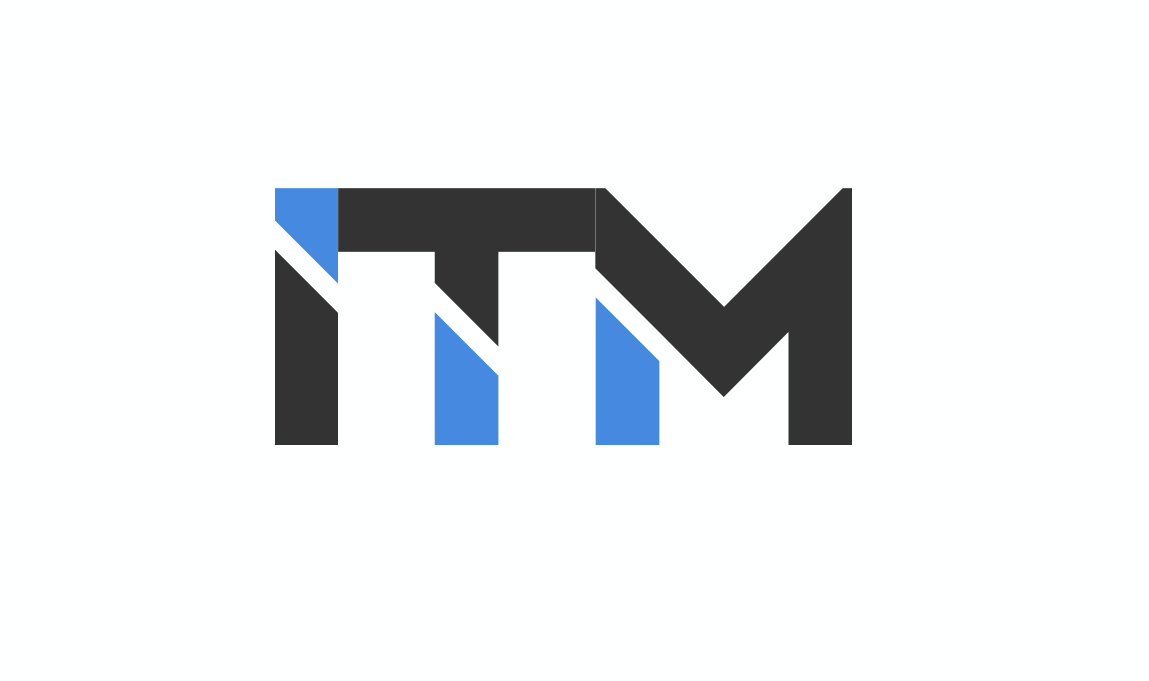
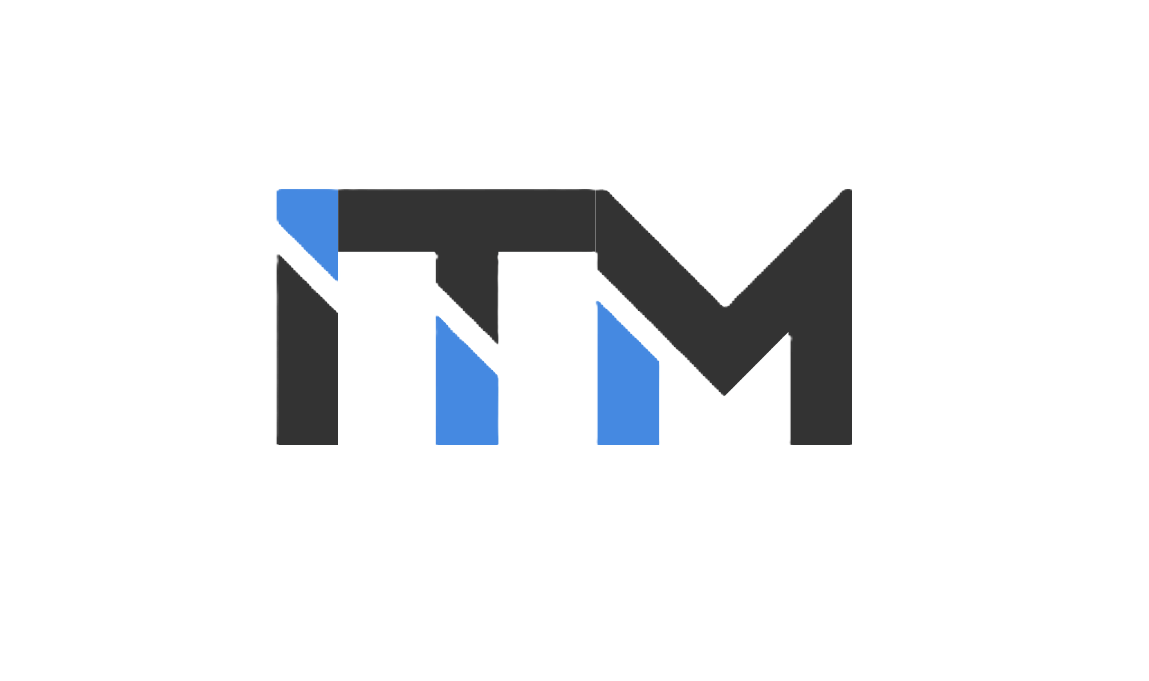
responsive

diff --git a/public/frontend/css/responsive.css b/public/frontend/css/responsive.css
@@ -59,8 +59,8 @@
 } */
 @media (max-width: 480px) {
     .brand-logo {
-      height: 70px;
-      padding-left: 10px;
+      height: 90px;
+      width: auto;
     }
 
 }
@@ -218,7 +218,7 @@
       } */
 
 
-    @media screen and (max-width:430px) {
+      @media (min-width: 320px) and (max-width: 480px) {
 
         .aboard{
             font-size: small;
@@ -235,7 +235,6 @@
             color: white;
             border-radius: 24px;
            text-align: center;
-           background-color:#42cfeb;
            font-size: small;
 
 
@@ -268,7 +267,7 @@
           .scholar{
 
             background-image: url(../image/mobilescreen.png);
-            background-size: cover;
+            background-size: contain;
             background-position: center;
             background-repeat: no-repeat;
 

diff --git a/public/frontend/css/style.css b/public/frontend/css/style.css
@@ -127,12 +127,12 @@ background-position: center;
   #header.header-inner-pages {
     background: rgba(40, 58, 90, 0.9);
   }
-  .brand-logo {
-    height: 80px;
-    width: auto;
+  /* #header.brand-logo {
+    height: 72px;
     width: auto;
 
-  }
+
+  } */
   /* #navbarNav {
     padding-right: 30px;
     padding-left: 15px;
@@ -615,7 +615,7 @@ justify-content:space-evenly;
  }
  .fac_text{
   color: #ffffff;
-  border: 3px solid #02556e;
+  border: 3px solid #e8eff1;
   border-radius: 50px;
   width: 50%;
   display: block;
@@ -2324,6 +2324,11 @@ width: auto;
 
   .animate{
   animation: up-down 2s ease-in-out infinite alternate-reverse both;
+  }
+
+  .text-blue{
+    color: #37517e;
+    font-weight: bold;
   }
 
 

diff --git a/public/frontend/css/custom.css b/public/frontend/css/custom.css
@@ -131,7 +131,9 @@ body {
   }
 
   #header .logo img {
-    max-height: 40px;
+    max-height: 50px;
+    width: 45px;
+
   }
 
   /*--------------------------------------------------------------
@@ -516,10 +518,10 @@ body {
   /*--------------------------------------------------------------
   # Sections General
   --------------------------------------------------------------*/
-  section {
+  /* section {
     padding: 60px 0;
     overflow: hidden;
-  }
+  } */
 
   .section-bg {
     background-color: #f3f5fa;

diff --git a/resources/views/layout/_nav.blade.php b/resources/views/layout/_nav.blade.php
@@ -173,7 +173,8 @@
       <header id="header" class="fixed-top">
         <div class="container d-flex align-items-center">
             {{-- <a class="navbar-brand" href="#"><img src="{{asset('frontend/image/portal.png')}}" alt="" class="brand-logo"></a> --}}
-            <h1 class="logo me-auto"><a href="index.html"><img src="{{asset('frontend/image/portal.png')}}" alt="" class="brand-logo"></a></h1>
+            <h1 class="logo me-auto"><a href="index.html"><img src="{{asset('frontend/image/logo.png')}}" alt="" class="brand"></a></h1>
+            {{-- <h1 class="logo me-auto"><a href="index.html">I T M</h1> --}}
           <nav id="navbar" class="navbar">
             <ul>
               <li><a class="nav-link scrollto active" href="{{route('home')}}"><i class="fa-solid fa-house s-4 homeicon"></i></a>

diff --git a/resources/views/frontend/home.blade.php b/resources/views/frontend/home.blade.php
@@ -593,7 +593,7 @@
 <br>
 
 <div class="highlight mt-5">
- <h2 class="text-white highlight">Scholarship</h2>
+ <h2 class="text-blue highlight">Scholarship</h2>
  <div class=" ">
      <span class="elementor-divider-separator"></span>
  </div>
@@ -614,7 +614,7 @@
            <div class="text p-1">
            <h2>{{$scholar->name}}</h2>
            <p class="h5 text-muted">{{$scholar->country}}</p>
-           <h4 class="text-warning">Contratulations!</h4>
+           <h4 class="text-blue">Contratulations!</h4>
        </div>
        </div>
        </div>
